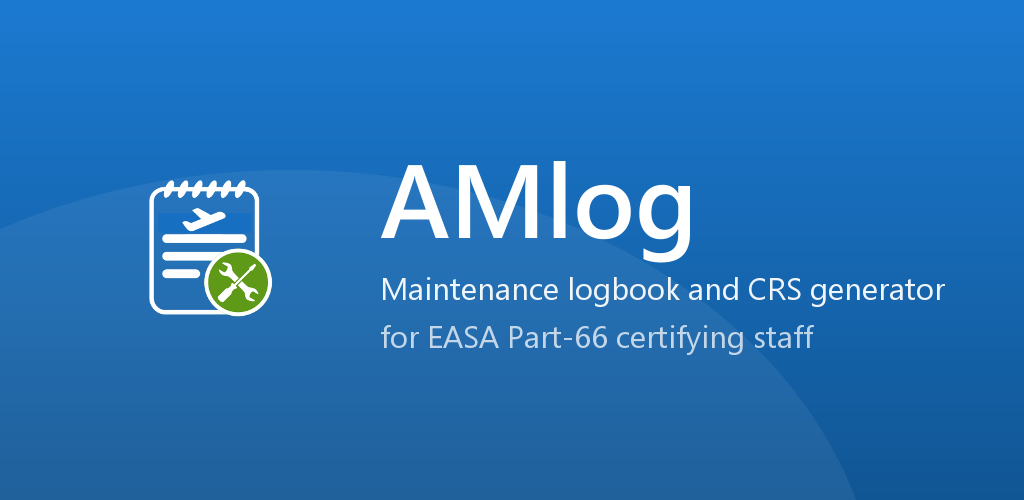
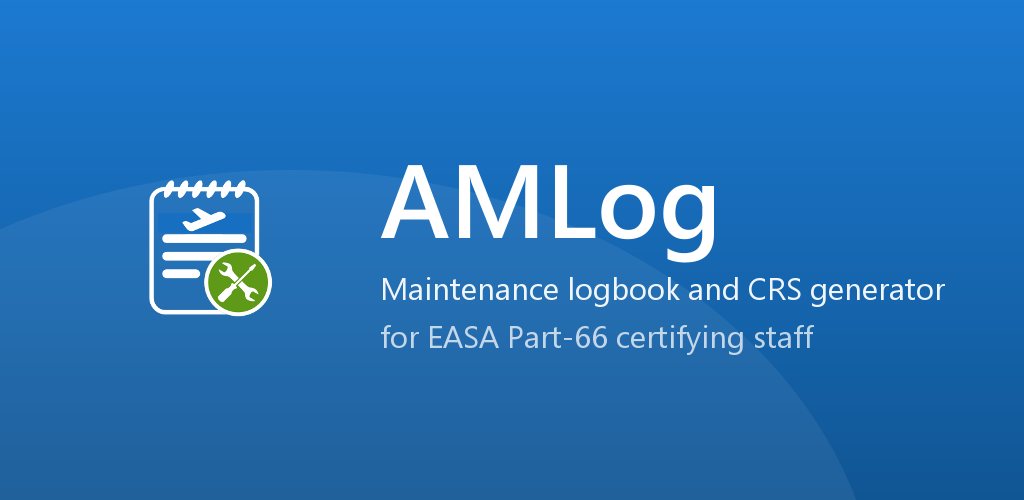
The app is called AMLog everywhere it says its own name
Nine user-visible places spelled it "AMlog", including the launcher label — so
the name under the icon on the home screen was wrong. Also corrects the store
listing and re-renders the feature graphic, which has the wordmark baked in.

Two spellings are deliberately untouched. The Drive root folder is created as
"AMLog" and must stay exactly that: it is an identifier, not a label, and
drive.file scope cannot search Drive by name, so renaming it would orphan the
folder every existing user already has. The lowercase "amlog" in PdfBranding is
an internal watermark resource key, and the developer contact address is an
address.

Changed region(s): [[0.5312, 0.3, 0.7188, 0.54]]

diff --git a/app/src/main/java/nl/part66l/logbook/ui/about/AboutScreen.kt b/app/src/main/java/nl/part66l/logbook/ui/about/AboutScreen.kt
@@ -95,7 +95,7 @@ fun AboutScreen(onClose: () -> Unit) {
                     verticalAlignment = Alignment.CenterVertically,
                 ) {
                     Column(verticalArrangement = Arrangement.spacedBy(4.dp)) {
-                        Text("AMlog", style = MaterialTheme.typography.titleMedium)
+                        Text("AMLog", style = MaterialTheme.typography.titleMedium)
                         Text(
                             "Version ${BuildConfig.VERSION_NAME} (${BuildConfig.VERSION_CODE})",
                             style = MaterialTheme.typography.bodyMedium,
@@ -127,7 +127,7 @@ fun AboutScreen(onClose: () -> Unit) {
                             "where your competent authority agreed a reduction in advance. Every logged " +
                             "day counts once, whatever its length.\n\n" +
                             "The same AMC lets up to 20% of the duration be replaced by training, " +
-                            "technical support or maintenance planning. AMlog does not model that — it " +
+                            "technical support or maintenance planning. AMLog does not model that — it " +
                             "would put a claim flag on every entry to serve a case most independent " +
                             "certifying staff never make, and anyone who does make it has already " +
                             "agreed it with their authority.",
@@ -153,7 +153,7 @@ fun AboutScreen(onClose: () -> Unit) {
                             "This applies only when that date is recorded on your profile.",
                     )
                     Text(
-                        "AMlog can only count what is in it. Work logged on paper, or before you " +
+                        "AMLog can only count what is in it. Work logged on paper, or before you " +
                             "installed the app, is invisible to this calculation — so a subcategory " +
                             "shown as not current may simply be incompletely recorded.",
                         style = MaterialTheme.typography.bodySmall,
@@ -203,17 +203,17 @@ fun AboutScreen(onClose: () -> Unit) {
                 Column(modifier = Modifier.padding(16.dp), verticalArrangement = Arrangement.spacedBy(8.dp)) {
                     Text("Disclaimer", style = MaterialTheme.typography.titleMedium)
                     Text(
-                        "AMlog does not determine your privileges or recency status — it records what " +
+                        "AMLog does not determine your privileges or recency status — it records what " +
                             "you enter and shows a calculation from it. You remain solely responsible for " +
                             "verifying compliance with your competent authority's requirements before " +
                             "relying on anything this app displays.\n\n" +
                             "Certificates signed on-device use a hardware-backed key with no third-party " +
                             "trust provider behind it — your competent authority, not this app, is the " +
                             "trust anchor for that signature (see the Signing certificate screen).\n\n" +
-                            "AMlog has no backend of its own and the developer never receives your " +
+                            "AMLog has no backend of its own and the developer never receives your " +
                             "data. Two things can copy your records off this device, both into your " +
                             "own Google account and neither to anyone else:\n\n" +
-                            "Android's own app backup is on by default, for AMlog as for most apps. It " +
+                            "Android's own app backup is on by default, for AMLog as for most apps. It " +
                             "copies your entries, photos and certificates into your Google account's " +
                             "backup so a replacement phone can restore them. It is encrypted with your " +
                             "device screen lock, so Google cannot read it. Turn it off in Android's " +

diff --git a/app/src/main/java/nl/part66l/logbook/ui/drive/DriveRestoreScreen.kt b/app/src/main/java/nl/part66l/logbook/ui/drive/DriveRestoreScreen.kt
@@ -71,7 +71,7 @@ fun DriveRestoreScreen(
             ) {
                 Text("Restore complete", style = MaterialTheme.typography.headlineSmall)
                 Text(
-                    "AMlog has to start fresh to read the restored records — the database was " +
+                    "AMLog has to start fresh to read the restored records — the database was " +
                         "replaced underneath it while it was running.",
                     style = MaterialTheme.typography.bodyMedium,
                     color = MaterialTheme.colorScheme.onSurfaceVariant,
@@ -90,7 +90,7 @@ fun DriveRestoreScreen(
                     },
                     modifier = Modifier.padding(top = 24.dp),
                 ) {
-                    Text("Close AMlog")
+                    Text("Close AMLog")
                 }
                 Text(
                     "Then open it again from your home screen.",

diff --git a/docs/store/Feature.java b/docs/store/Feature.java
@@ -39,7 +39,7 @@ public class Feature {
         int tx = mx + mark + 40;
         int avail = W - tx - MARGIN;
 
-        String name = "AMlog", l1 = "Maintenance logbook and CRS generator", l2 = "for EASA Part-66 certifying staff";
+        String name = "AMLog", l1 = "Maintenance logbook and CRS generator", l2 = "for EASA Part-66 certifying staff";
         Font fName = fit(g, name, "Segoe UI Semibold", Font.BOLD, 104, avail);
         Font fLine = fit(g, l1, "Segoe UI", Font.PLAIN, 34, avail);
         if (g.getFontMetrics(fLine).stringWidth(l2) > avail) fLine = fit(g, l2, "Segoe UI", Font.PLAIN, 34, avail);

diff --git a/docs/store/listing.md b/docs/store/listing.md
@@ -12,7 +12,7 @@ Maintenance logbook and CRS generator for EASA Part-66 certifying staff
 ## Full description (4000 max)
 
 ```
-AMlog is a personal maintenance logbook and certificate-of-release-to-service generator for holders of an EASA Part-66 aircraft maintenance licence. It is built for independent certifying staff keeping their own records — not a fleet system, not a CAMO tool, and not something that reports to anyone.
+AMLog is a personal maintenance logbook and certificate-of-release-to-service generator for holders of an EASA Part-66 aircraft maintenance licence. It is built for independent certifying staff keeping their own records — not a fleet system, not a CAMO tool, and not something that reports to anyone.
 
 RECENCY, WORKED OUT AS YOU LOG
 
@@ -39,13 +39,13 @@ Optionally connect your own Google Drive. Certificates, photos, documents and fu
 
 PRIVACY
 
-AMlog has no backend and the developer never receives your data. Your records are held on this device, and copied only into your own Google account — by Android's own app backup, and by Drive sync if you switch it on. Nothing is sent anywhere else. There is no analytics and no advertising.
+AMLog has no backend and the developer never receives your data. Your records are held on this device, and copied only into your own Google account — by Android's own app backup, and by Drive sync if you switch it on. Nothing is sent anywhere else. There is no analytics and no advertising.
 
 IMPORTANT
 
-AMlog does not determine your privileges or your recency status. It records what you enter and shows a calculation from it, and it cannot see work logged on paper or before you installed it — so a subcategory shown as not current may simply be incompletely recorded. You remain solely responsible for verifying compliance with your competent authority's requirements before relying on anything the app displays.
+AMLog does not determine your privileges or your recency status. It records what you enter and shows a calculation from it, and it cannot see work logged on paper or before you installed it — so a subcategory shown as not current may simply be incompletely recorded. You remain solely responsible for verifying compliance with your competent authority's requirements before relying on anything the app displays.
 
 Certificates signed on the device use a hardware-backed key with no third-party trust provider behind it. Your competent authority, not this app, is the trust anchor for that signature.
 
-AMlog is an independent tool. It is not affiliated with, endorsed by, or produced by EASA or any national aviation authority.
+AMLog is an independent tool. It is not affiliated with, endorsed by, or produced by EASA or any national aviation authority.
 ```

diff --git a/docs/release.md b/docs/release.md
@@ -1,6 +1,6 @@
 # Releasing to Google Play
 
-The app is **AMlog**, `nl.schellenberg.amlog` on Play. Note that the Kotlin package is
+The app is **AMLog**, `nl.schellenberg.amlog` on Play. Note that the Kotlin package is
 still `nl.part66l.logbook` — `namespace` and `applicationId` are independent, and only the
 latter is what Google identifies the app by. This covers getting a build onto a
 Play testing track.
